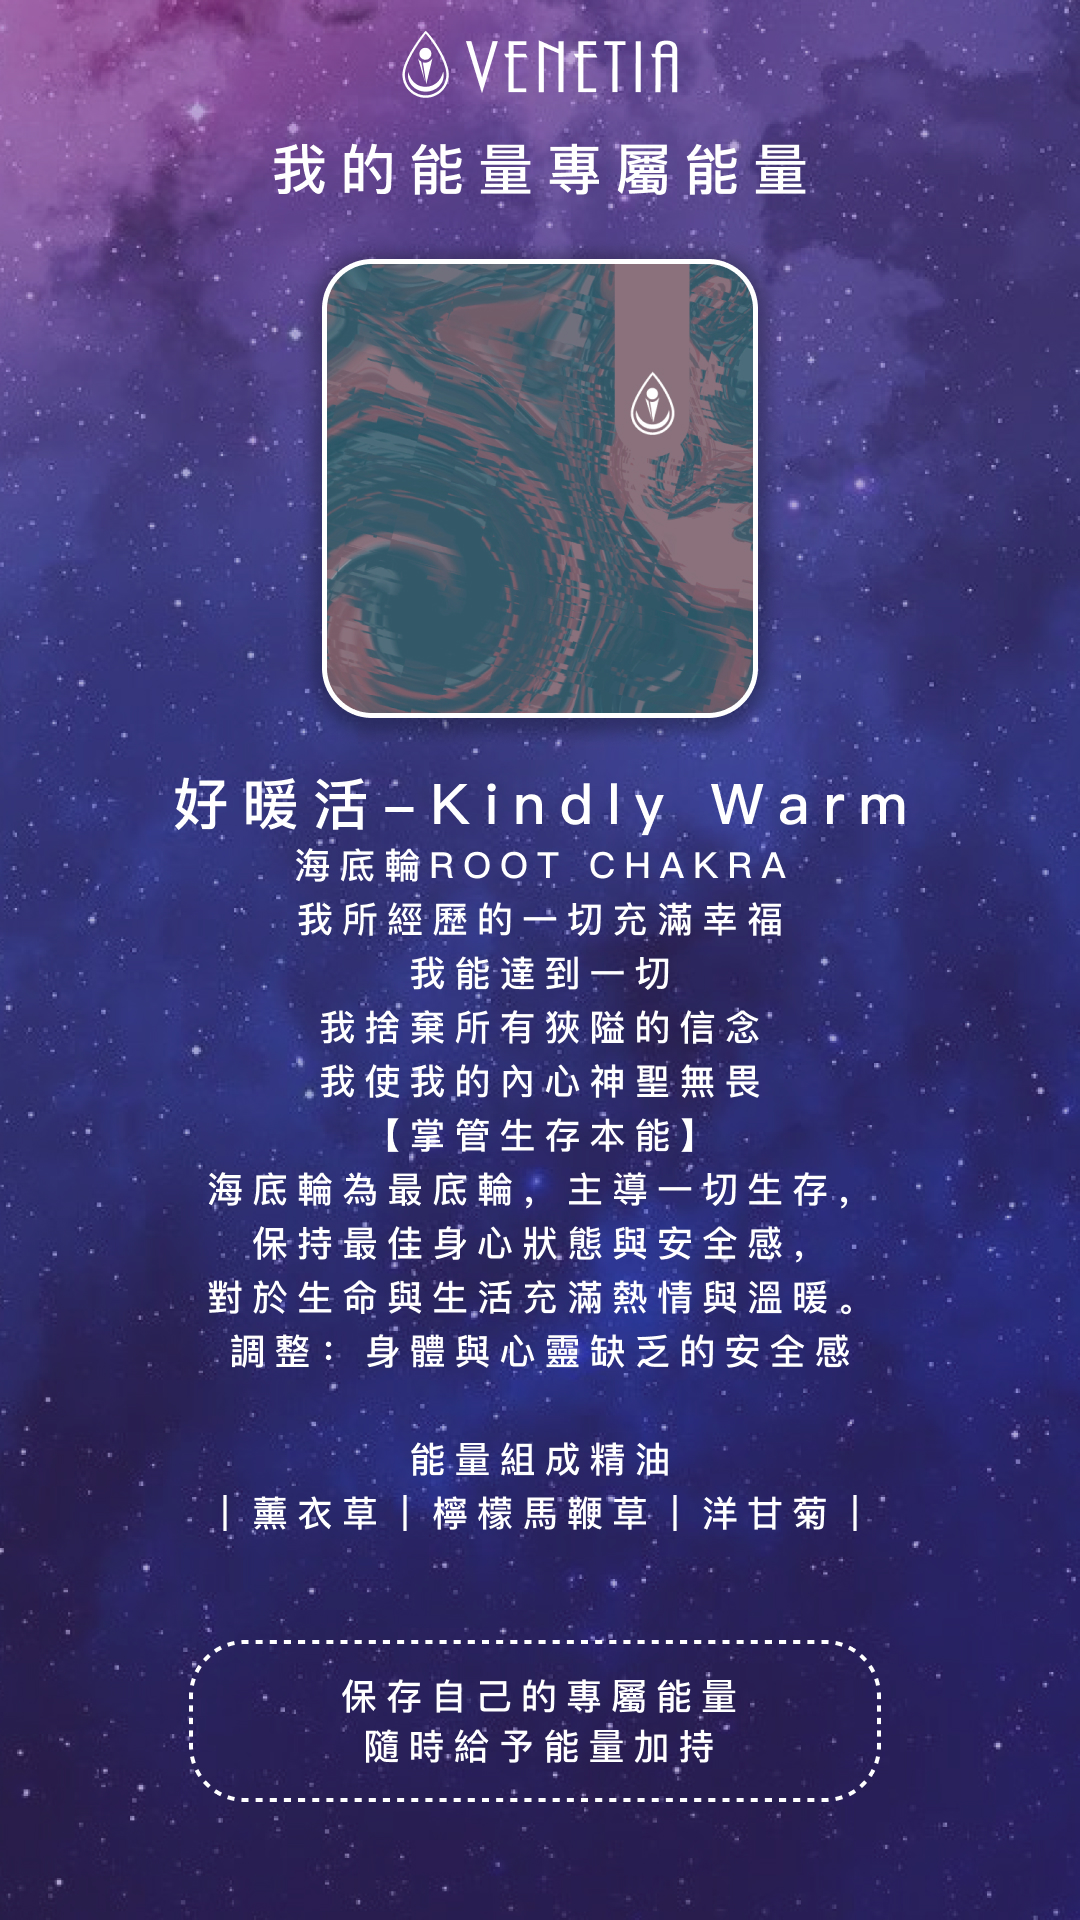
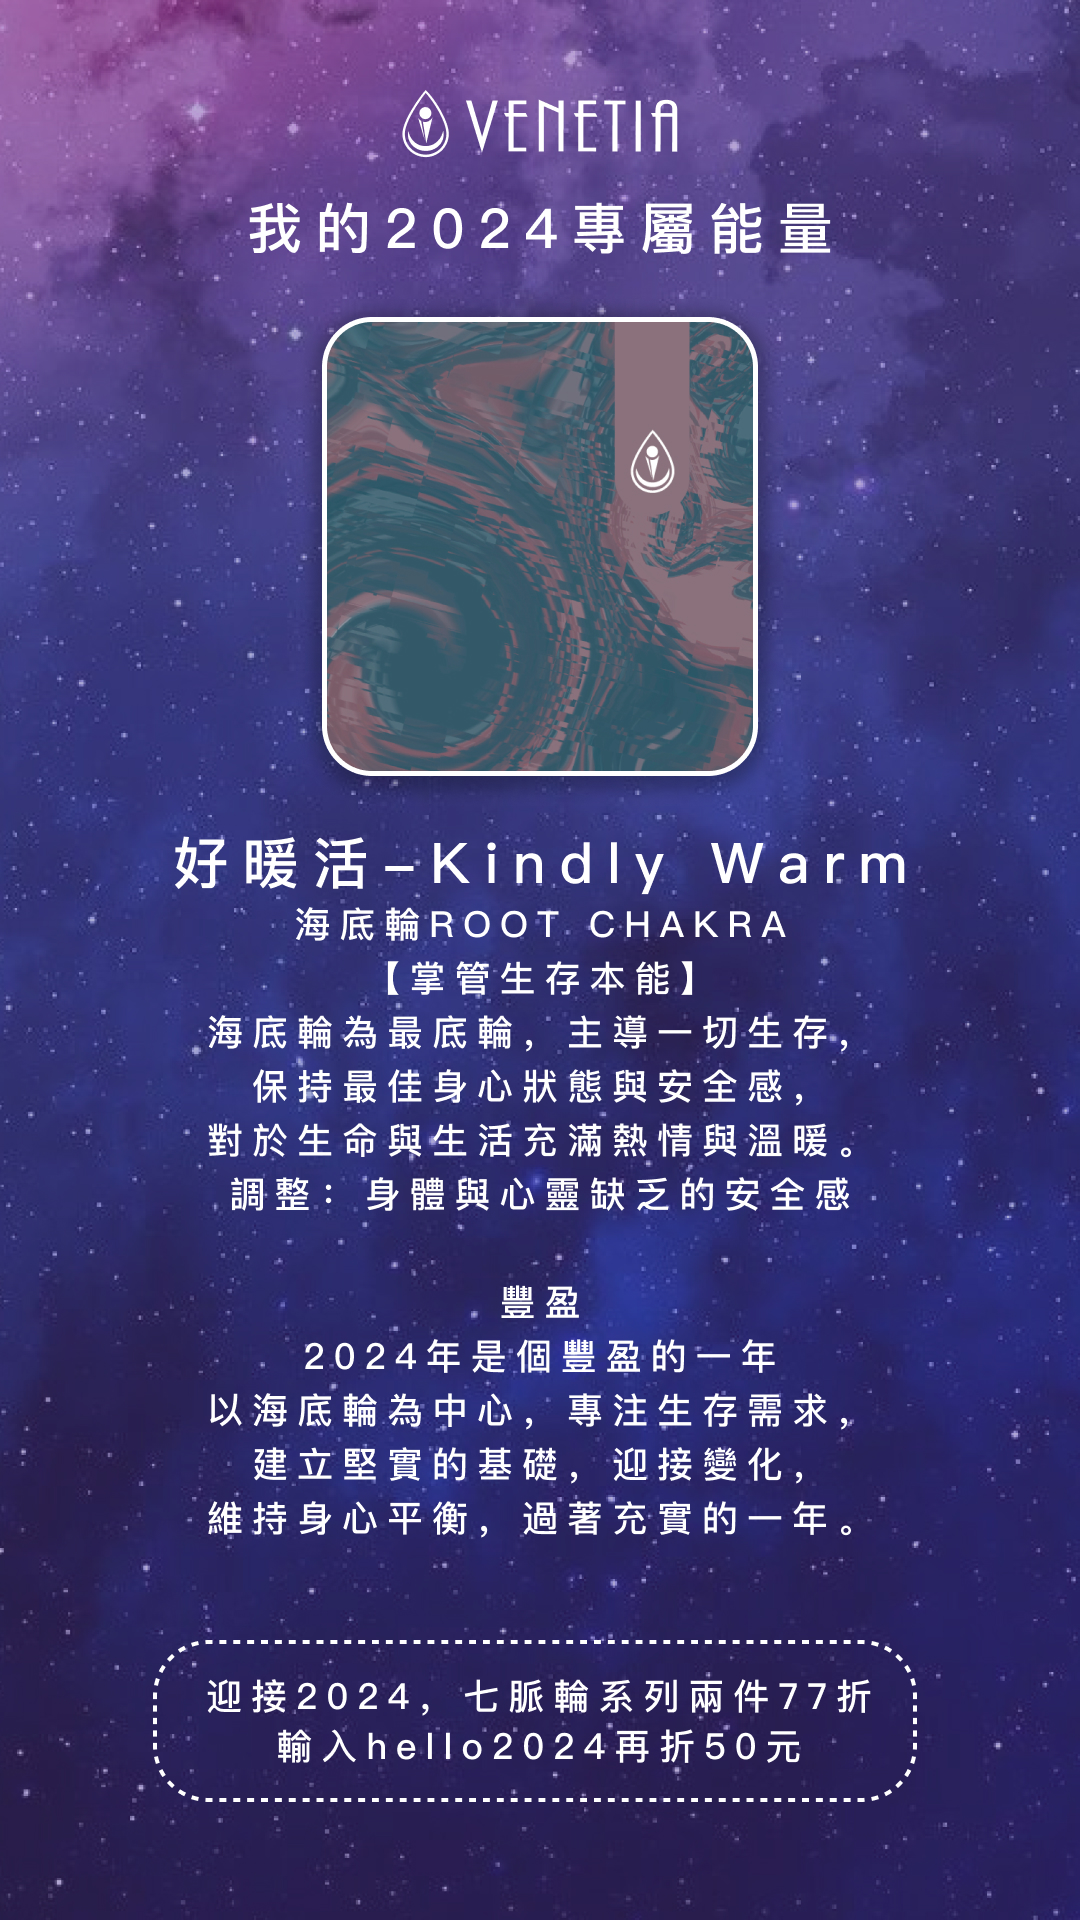
2024新春版

Changed region(s): [[0.1528, 0.0, 0.8556, 0.8125], [0.1833, 0.875, 0.825, 0.9375]]

diff --git a/reveal_card.html b/reveal_card.html
@@ -29,7 +29,7 @@
   <div id="particles-js">
     <img id="spin2" src="spinngWeel.png"></img>
     <div class="container">
-      <h2>你抽到的牌是</h2>
+      <h2>我的2024專屬能量是</h2>
       <div class="card_container">
         <a href="reveal_card"><img id="reveal_card" class="reveal_card animate__animated animate__flipInX" id="card1"
             src="card.png"></a>
@@ -66,10 +66,10 @@
 
       </div>
       <div class="card-link">
-        <a class="btn" id="link" href="">點我了解更多</a>
+        <a class="btn" id="link" href="">了解更多</a>
+        <a class="btn" href="https://www.instagram.com/venetia_nature/">Instagram</a>
         <br></br>
-        <a class="btn" id="downloadlink" href="">下載分享給好友</a>
-        <p>凡娜緹雅七脈輪精油</p>
+        <a class="btn" id="downloadlink" href="">下載並上傳到IG抽專屬精油</a>
       </div>
 
  
@@ -91,7 +91,7 @@
   {
     "cardTitle": "好暖活-Kindly Warm",
     "cardSubtitle": "海底輪 ROOT CHAKRA<br>#專注 #平靜",
-    "cardInfo": "【掌管生存本能】<br>海底輪為最底輪，主導一切生存，保持最佳身心狀態與安全感，對於命與生活充滿熱情與溫暖。<br>調整：身體與心靈缺乏的安全感",
+    "cardInfo": "豐盈<br>2024年是個豐盈的一年，以海底輪為中心，專注生存需求，建立堅實的基礎，迎接變化，<br>維持身心平衡，過著充實的一年。<br>調整：身體與心靈缺乏的安全感",
     "cardOil":"｜檸檬馬鞭草、薄荷、佛手柑｜",
     "cardImage": "7.png",
     "link": "https://www.savunbio.com/products/kindlywarm",
@@ -100,7 +100,7 @@
   {
     "cardTitle": "好桃花-Fate of love",
     "cardSubtitle": "臍輪SACRAL CHAKRA<br>#自信魅力 #吸引力",
-    "cardInfo": "【掌管兩性與人際關係】<br>臍輪代表性的能力，為人性根本，代表慾望及人際關係，掌握生活愉悅事物，並對人保持尊重與包容。<br>調整：和諧的情侶關係、改善人際關係",
+    "cardInfo": "創造<br>肚臍輪的力量將啟發你，在兩性和人際關係中，<br>展現更豐富的創意，促進深層連結，2024成為愛與合作的年份。<br>調整：和諧的情侶關係、提升人際關係",
     "cardOil":"｜薰衣草｜薄荷｜洋甘菊｜",
     "cardImage": "6.png",
     "link": "https://www.savunbio.com/products/fate-in-love",
@@ -109,7 +109,7 @@
   {
     "cardTitle": "好旺旺-Good Luck",
     "cardSubtitle": "太陽神經叢 SOLAR PLEXUS CHAKRA <br>#正能量 #運氣提升",
-    "cardInfo": "【掌管自我認同】<br>太陽神經叢幫助找尋自我認同感，感受自我，尋找自己的定位，傾聽內心真正的聲音。<br>調整：尋找自我，發自內心的自信心",
+    "cardInfo": "彈性<br>越有彈性越有力量的2024年，<br>太陽神經叢引導你建立自我認同。擁有更多彈性，<br>你將擁有更強大的力量，蓄積更多成就。<br>調整：尋找自我，發自內心的自信心",
     "cardOil":"｜薄荷｜檸檬馬鞭草｜洋甘菊｜",
     "cardImage": "4.png",
     "link": "https://www.savunbio.com/products/good-luck",
@@ -118,7 +118,7 @@
   {
     "cardTitle": "好心情-Good Mood",
     "cardSubtitle": "心輪 HEART CHAKRA <br>#安全感" ,
-    "cardInfo": "【掌管愛與安全感】<br>心輪是內在與外在連結的脈輪，如潔淨美麗的蓮花，出淤泥而不染，一切事物皆在掌握之中。<br>調整：以理性視野看待一切。",
+    "cardInfo": "仁愛<br>心輪主宰愛與安全感，2024年的仁愛之力提醒你，<br>先愛自己，再愛他人。<br>這將成為建立深厚關係和燃起內在安定感的關鍵。<br>調整：以理性視野看待一切。",
     "cardOil":"｜檸檬馬鞭草｜薄荷｜佛手柑｜",
     "cardImage": "2.png",
     "link": "https://www.savunbio.com/products/good-mood",
@@ -127,25 +127,25 @@
   {
     "cardTitle": "好自然-Step in Nature",
     "cardSubtitle": "喉輪THROAT CHAKRA<br>#回歸自我 #調整身心",
-    "cardInfo": "【掌管溝通能力】<br>喉輪幫助我們認清自我，並向外人表達真誠情感。<br>調整：調整自己的溝通與內省，展現人際關係的自在與自信",
+    "cardInfo": "驕傲<br>2024年盡情感受每個驕傲的時刻，並善用溝通技巧展現自信。<br>透過自尊心的提升，你將更有效地表達，<br>贏得信任並建立深厚人際關係。<br>調整：提升自己的溝通與內省，展現人際關係的自在與自信",
     "cardOil":"｜薄荷｜花梨木｜檸檬馬鞭草｜",
     "cardImage": "3.png",
     "link": "https://www.savunbio.com/products/step-in-nature",
     "downloadImage":"download-3.jpg"
   },
   {
-    "cardTitle": "好好慵懶-Lazy Cozy",
+    "cardTitle": "好慵懶-Lazy Cozy",
     "cardSubtitle": "眉心輪THIRD-EYE CHAKRA<br>#溝通 #思路清晰",
-    "cardInfo": "【掌管思考能力】<br>位於兩眉之間的眉輪，像似第三隻眼，幫助我們平靜判斷事物。<br>調整：心平靜和，放鬆，讓緊繃的心情平靜，思慮清晰",
+    "cardInfo": "直覺<br>眉心輪啟示著直覺的力量。2024年，堅信自己的初衷，<br>跟著直覺走，開啟更清晰、明確的人生方向。<br>調整：心平靜和，放鬆，思慮清晰",
     "cardOil":"｜花梨木｜佛手柑｜洋甘菊｜",
     "cardImage": "5.png",
     "link": "https://www.savunbio.com/products/lazy-cozy",
     "downloadImage":"download-2.jpg"
   },
   {
-    "cardTitle": "好好好睡-Relaxing & Release",
+    "cardTitle": "好好睡-Relaxing & Release",
     "cardSubtitle": "頂輪CROWN CHAKRA<br>#舒壓解悶 #助眠",
-    "cardInfo": "【掌管靈性、人體能量的中心】<br>專注自我，靜夜中自我平靜對話，深夜中感受內心溫暖。<br>調整：平靜內在，自我對話，並給予身心良好睡眠。",
+    "cardInfo": "勇氣<br>2024年，頂輪賦予你無窮勇氣，<br>引領你蛻變成更高層次的自己，啟動靈性之旅。<br>調整：平靜內在，自我對話，",
     "cardOil":"｜佛手柑｜薰衣草｜花梨木｜",
     "cardImage": "1.png",
     "link": "https://www.savunbio.com/products/relaxingrelease",

diff --git a/index.html b/index.html
@@ -27,7 +27,7 @@
       <img id="spin" src="spinngWeel.png"></img>
     </div>
     <h1>凡娜緹雅</h1>
-    <h1>2024新春魔幻舞台占卜</h1>
+    <h1>2024新春七脈輪占卜</h1>
     <a id="btn" href="choose_card.html">開始</a>
   </div>
 
